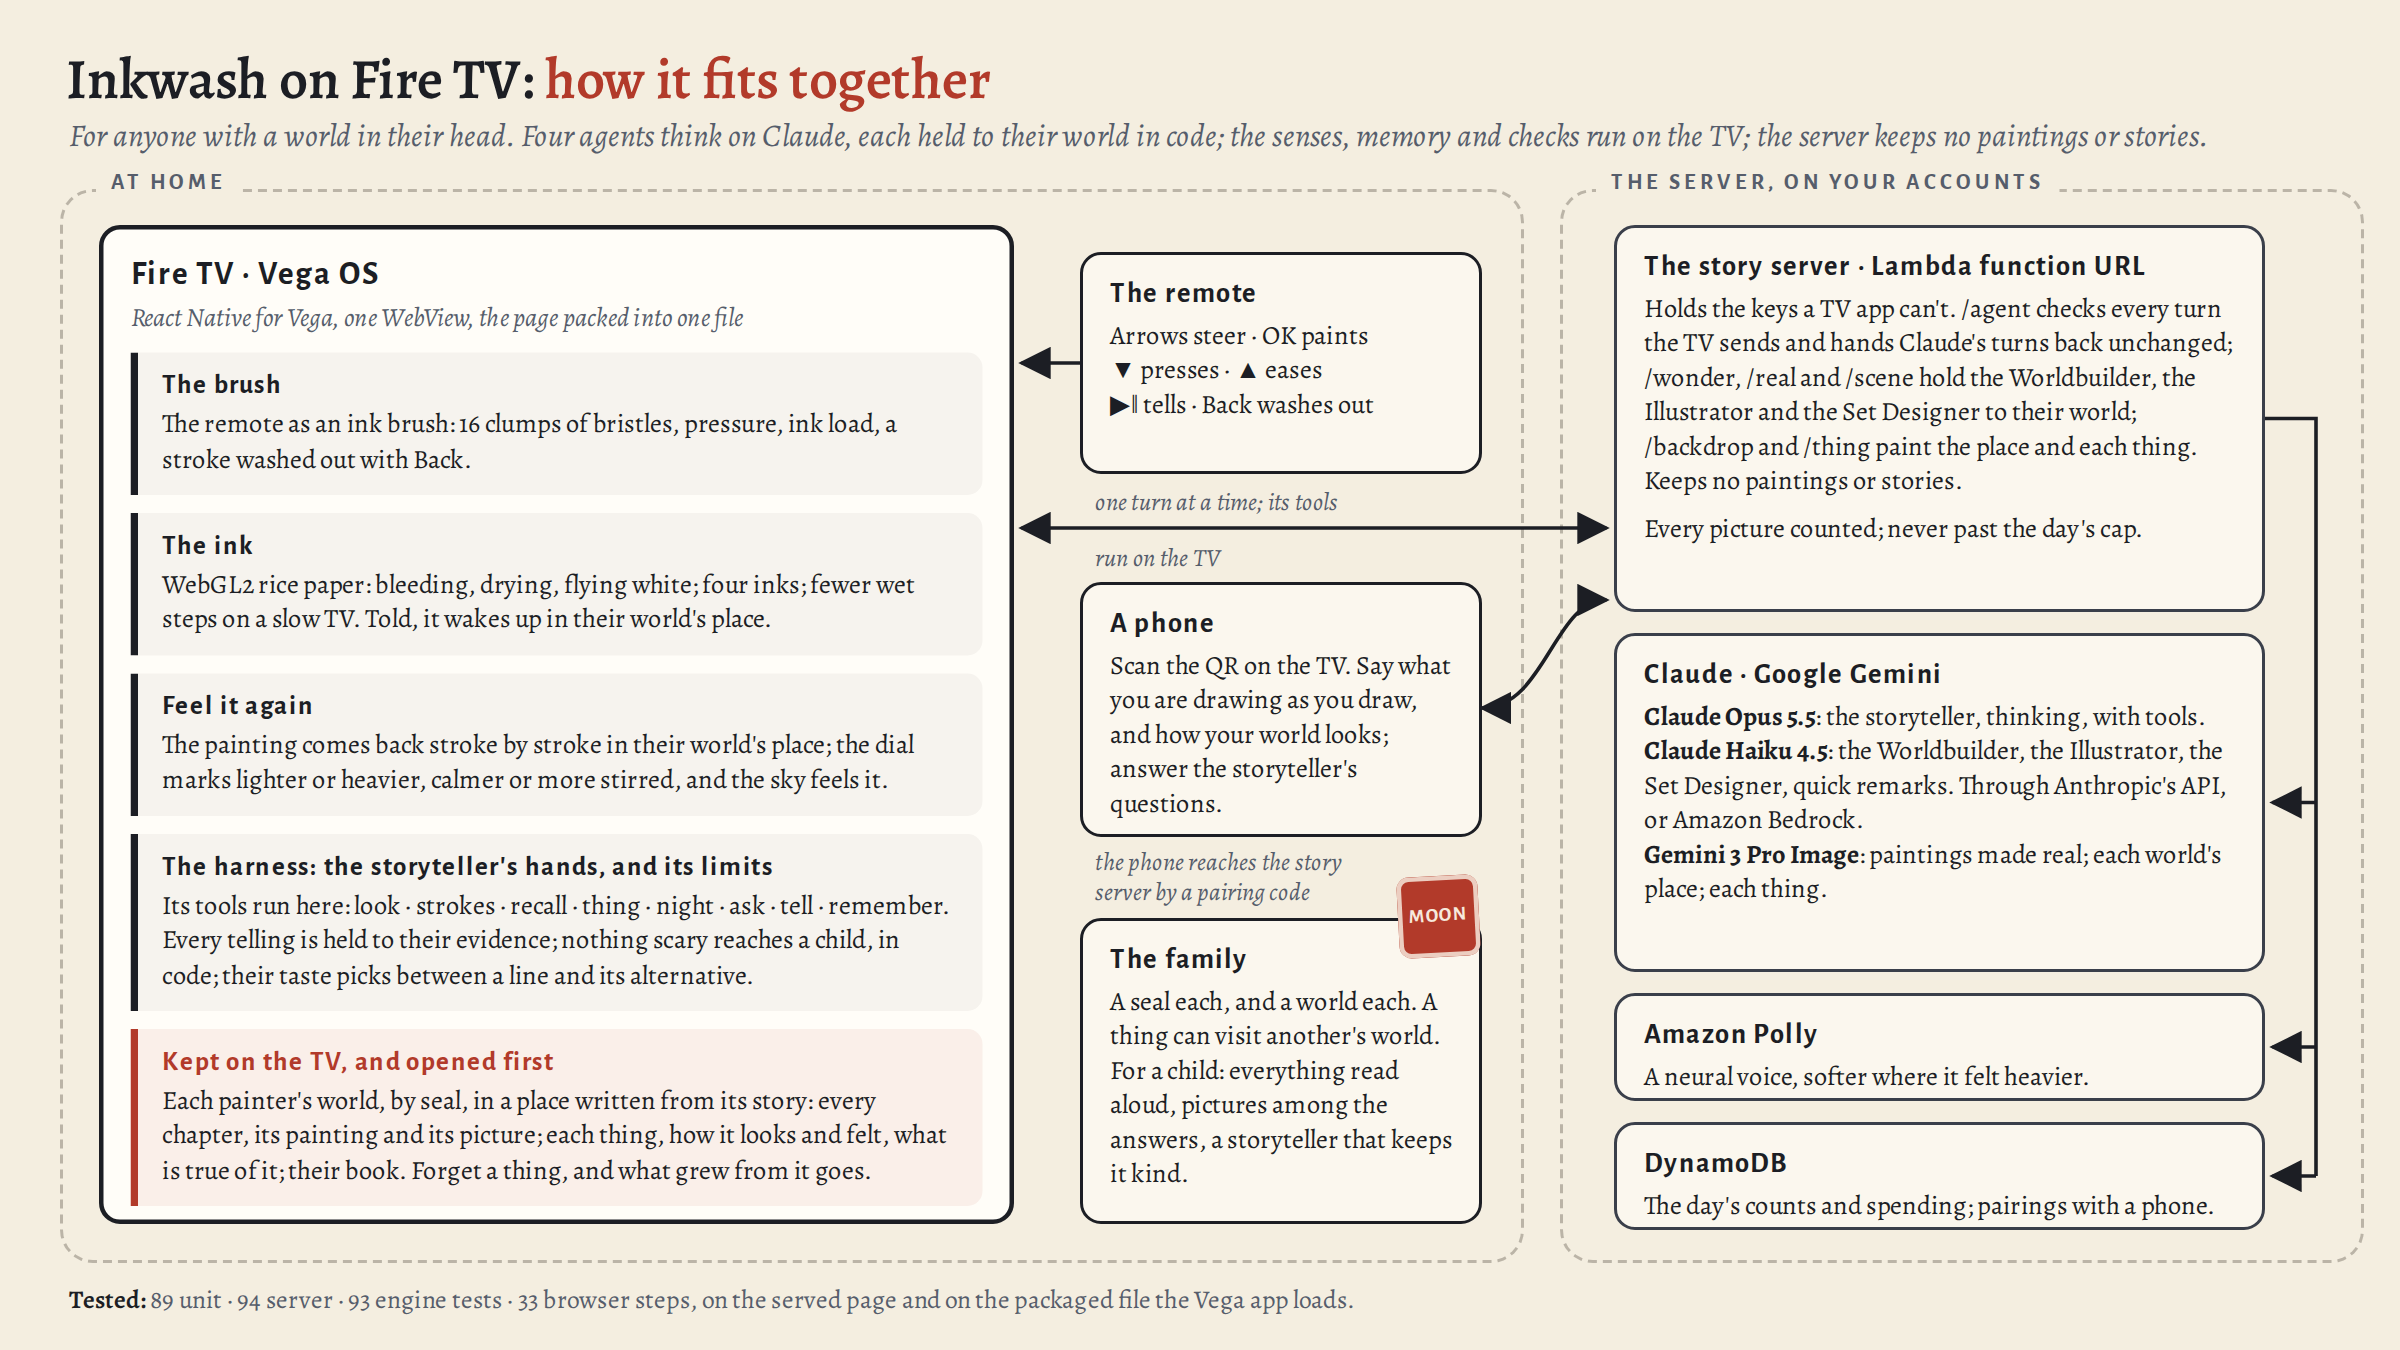
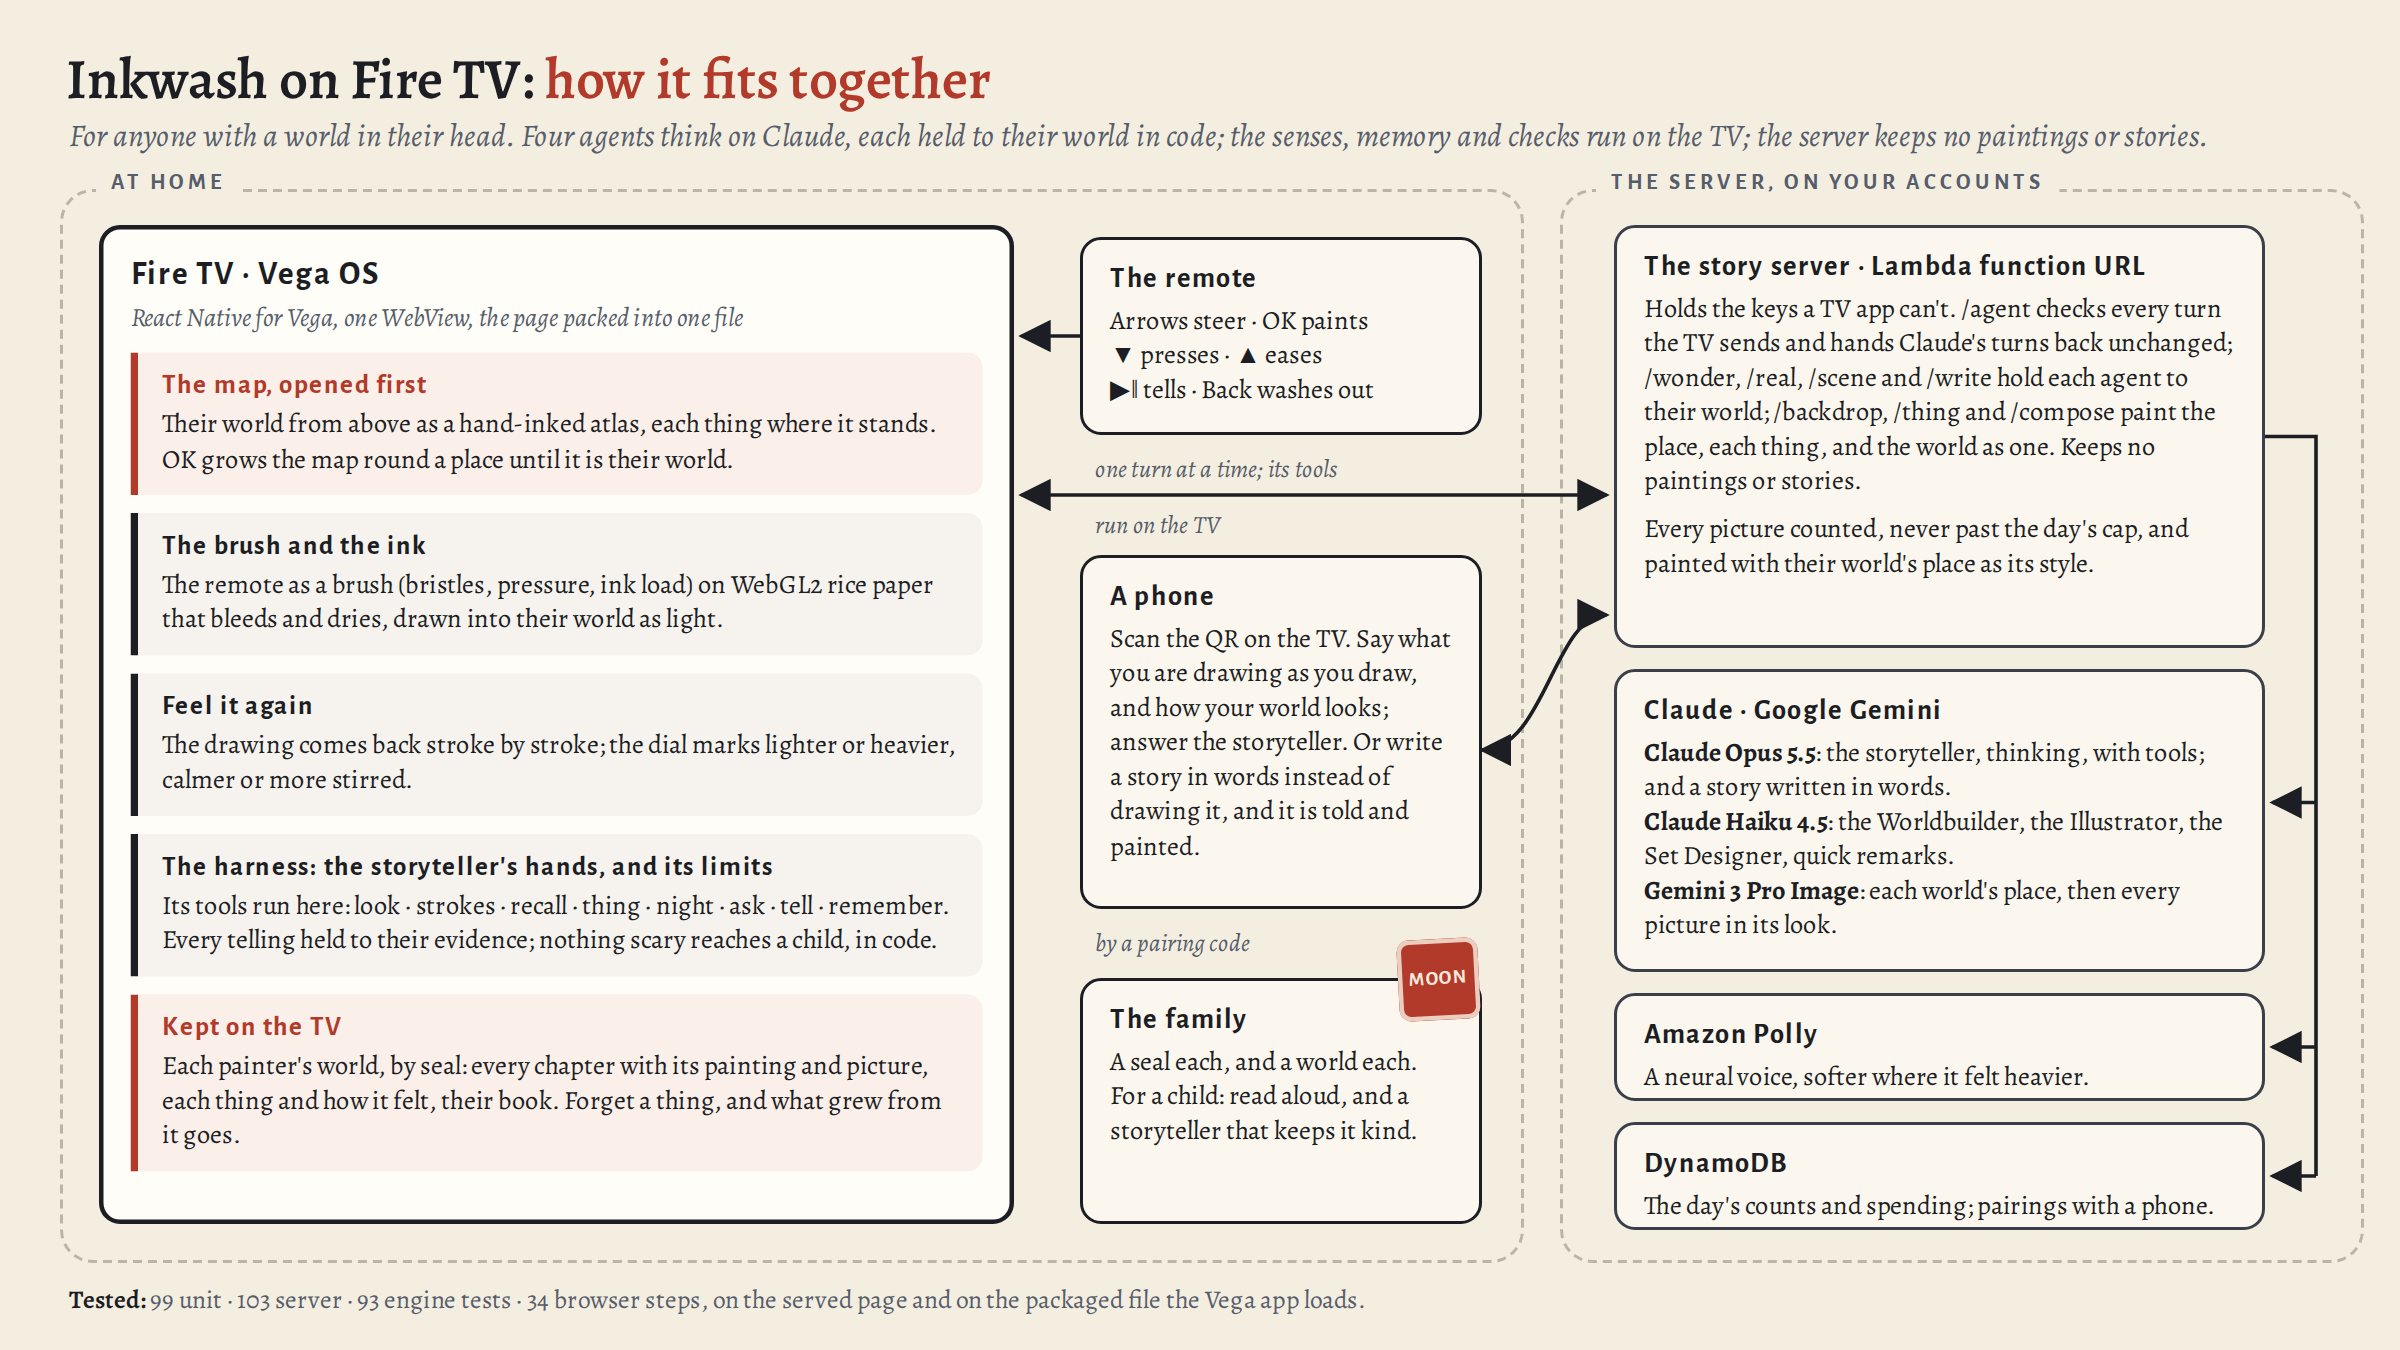
Diagram: the map opened first, a story written in words, pictures in the world's look

diff --git a/tv/docs/architecture.html b/tv/docs/architecture.html
@@ -43,35 +43,35 @@
   <div class="box tv" style="left:66px; top:150px; width:610px; height:666px">
     <h2>Fire TV · Vega OS</h2>
     <p class="note">React Native for Vega, one WebView, the page packed into one file</p>
-    <div class="part"><h3>The brush</h3><p>The remote as an ink brush: 16 clumps of bristles, pressure, ink load, a stroke washed out with Back.</p></div>
-    <div class="part"><h3>The ink</h3><p>WebGL2 rice paper: bleeding, drying, flying white; four inks; fewer wet steps on a slow TV. Told, it wakes up in their world's place.</p></div>
-    <div class="part"><h3>Feel it again</h3><p>The painting comes back stroke by stroke in their world's place; the dial marks lighter or heavier, calmer or more stirred, and the sky feels it.</p></div>
-    <div class="part"><h3>The harness: the storyteller's hands, and its limits</h3><p>Its tools run here: look · strokes · recall · thing · night · ask · tell · remember. Every telling is held to their evidence; nothing scary reaches a child, in code; their taste picks between a line and its alternative.</p></div>
-    <div class="part keep"><h3>Kept on the TV, and opened first</h3><p>Each painter's world, by seal, in a place written from its story: every chapter, its painting and its picture; each thing, how it looks and felt, what is true of it; their book. Forget a thing, and what grew from it goes.</p></div>
+    <div class="part keep"><h3>The map, opened first</h3><p>Their world from above as a hand-inked atlas, each thing where it stands. OK grows the map round a place until it is their world.</p></div>
+    <div class="part"><h3>The brush and the ink</h3><p>The remote as a brush (bristles, pressure, ink load) on WebGL2 rice paper that bleeds and dries, drawn into their world as light.</p></div>
+    <div class="part"><h3>Feel it again</h3><p>The drawing comes back stroke by stroke; the dial marks lighter or heavier, calmer or more stirred.</p></div>
+    <div class="part"><h3>The harness: the storyteller's hands, and its limits</h3><p>Its tools run here: look · strokes · recall · thing · night · ask · tell · remember. Every telling held to their evidence; nothing scary reaches a child, in code.</p></div>
+    <div class="part keep"><h3>Kept on the TV</h3><p>Each painter's world, by seal: every chapter with its painting and picture, each thing and how it felt, their book. Forget a thing, and what grew from it goes.</p></div>
   </div>
 
-  <div class="box" style="left:720px; top:168px; width:268px; height:148px">
+  <div class="box" style="left:720px; top:158px; width:268px; height:132px">
     <h2>The remote</h2>
     <p>Arrows steer · OK paints<br>▼ presses · ▲ eases<br>▶‖ tells · Back washes out</p>
   </div>
-  <div class="box" style="left:720px; top:388px; width:268px; height:170px">
+  <div class="box" style="left:720px; top:370px; width:268px; height:236px">
     <h2>A phone</h2>
-    <p>Scan the QR on the TV. Say what you are drawing as you draw, and how your world looks; answer the storyteller's questions.</p>
+    <p>Scan the QR on the TV. Say what you are drawing as you draw, and how your world looks; answer the storyteller. Or write a story in words instead of drawing it, and it is told and painted.</p>
   </div>
-  <div class="box" style="left:720px; top:612px; width:268px; height:204px">
+  <div class="box" style="left:720px; top:652px; width:268px; height:164px">
     <h2>The family</h2>
-    <p>A seal each, and a world each. A thing can visit another's world. For a child: everything read aloud, pictures among the answers, a storyteller that keeps it kind.</p>
+    <p>A seal each, and a world each. For a child: read aloud, and a storyteller that keeps it kind.</p>
   </div>
-  <div class="seal" style="left:932px; top:584px">MOON</div>
+  <div class="seal" style="left:932px; top:626px">MOON</div>
 
-  <div class="box aws" style="left:1076px; top:150px; width:434px; height:258px">
+  <div class="box aws" style="left:1076px; top:150px; width:434px; height:282px">
     <h2>The story server · Lambda function URL</h2>
-    <p>Holds the keys a TV app can't. /agent checks every turn the TV sends and hands Claude's turns back unchanged; /wonder, /real and /scene hold the Worldbuilder, the Illustrator and the Set Designer to their world; /backdrop and /thing paint the place and each thing. Keeps no paintings or stories.</p>
-    <p style="margin-top:8px">Every picture counted; never past the day's cap.</p>
+    <p>Holds the keys a TV app can't. /agent checks every turn the TV sends and hands Claude's turns back unchanged; /wonder, /real, /scene and /write hold each agent to their world; /backdrop, /thing and /compose paint the place, each thing, and the world as one. Keeps no paintings or stories.</p>
+    <p style="margin-top:8px">Every picture counted, never past the day's cap, and painted with their world's place as its style.</p>
   </div>
-  <div class="box aws" style="left:1076px; top:422px; width:434px; height:226px">
+  <div class="box aws" style="left:1076px; top:446px; width:434px; height:202px">
     <h2>Claude · Google Gemini</h2>
-    <p><b>Claude Opus 5.5</b>: the storyteller, thinking, with tools.<br><b>Claude Haiku 4.5</b>: the Worldbuilder, the Illustrator, the Set Designer, quick remarks. Through Anthropic's API, or Amazon Bedrock.<br><b>Gemini 3 Pro Image</b>: paintings made real; each world's place; each thing.</p>
+    <p><b>Claude Opus 5.5</b>: the storyteller, thinking, with tools; and a story written in words.<br><b>Claude Haiku 4.5</b>: the Worldbuilder, the Illustrator, the Set Designer, quick remarks.<br><b>Gemini 3 Pro Image</b>: each world's place, then every picture in its look.</p>
   </div>
   <div class="box aws" style="left:1076px; top:662px; width:434px; height:72px">
     <h2>Amazon Polly</h2>
@@ -86,24 +86,23 @@
     <defs><marker id="a" viewBox="0 0 10 10" refX="9" refY="5" markerWidth="9" markerHeight="9" orient="auto-start-reverse"><path d="M0 0 L10 5 L0 10 z" fill="#1c1e24"/></marker></defs>
     <g fill="none" stroke="#1c1e24" stroke-width="2.4">
       <!-- remote to TV -->
-      <path d="M720 242 L681 242" marker-end="url(#a)"/>
+      <path d="M720 224 L681 224" marker-end="url(#a)"/>
       <!-- TV to and from the service, through the gap between the remote and the phone -->
-      <path d="M681 352 L1071 352" marker-end="url(#a)" marker-start="url(#a)"/>
+      <path d="M681 330 L1071 330" marker-end="url(#a)" marker-start="url(#a)"/>
       <!-- phone to and from the service -->
-      <path d="M988 472 C 1030 472, 1036 400, 1071 400" marker-end="url(#a)" marker-start="url(#a)"/>
+      <path d="M988 500 C 1030 500, 1036 410, 1071 410" marker-end="url(#a)" marker-start="url(#a)"/>
       <!-- the service to Bedrock, Polly and DynamoDB -->
-      <path d="M1510 279 H1544 V784"/>
+      <path d="M1510 291 H1544 V784"/>
       <path d="M1544 535 H1515" marker-end="url(#a)"/>
       <path d="M1544 698 H1515" marker-end="url(#a)"/>
       <path d="M1544 784 H1515" marker-end="url(#a)"/>
     </g>
-    <text class="tag" x="730" y="340">one turn at a time; its tools</text>
-    <text class="tag" x="730" y="377">run on the TV</text>
-    <text class="tag" x="730" y="580">the phone reaches the story</text>
-    <text class="tag" x="730" y="600">server by a pairing code</text>
+    <text class="tag" x="730" y="318">one turn at a time; its tools</text>
+    <text class="tag" x="730" y="355">run on the TV</text>
+    <text class="tag" x="730" y="634">by a pairing code</text>
   </svg>
 
-  <p class="foot"><b>Tested:</b> 89 unit · 94 server · 93 engine tests · 33 browser steps, on the served page and on the packaged file the Vega app loads.</p>
+  <p class="foot"><b>Tested:</b> 99 unit · 103 server · 93 engine tests · 34 browser steps, on the served page and on the packaged file the Vega app loads.</p>
 </div>
 </body>
 </html>
